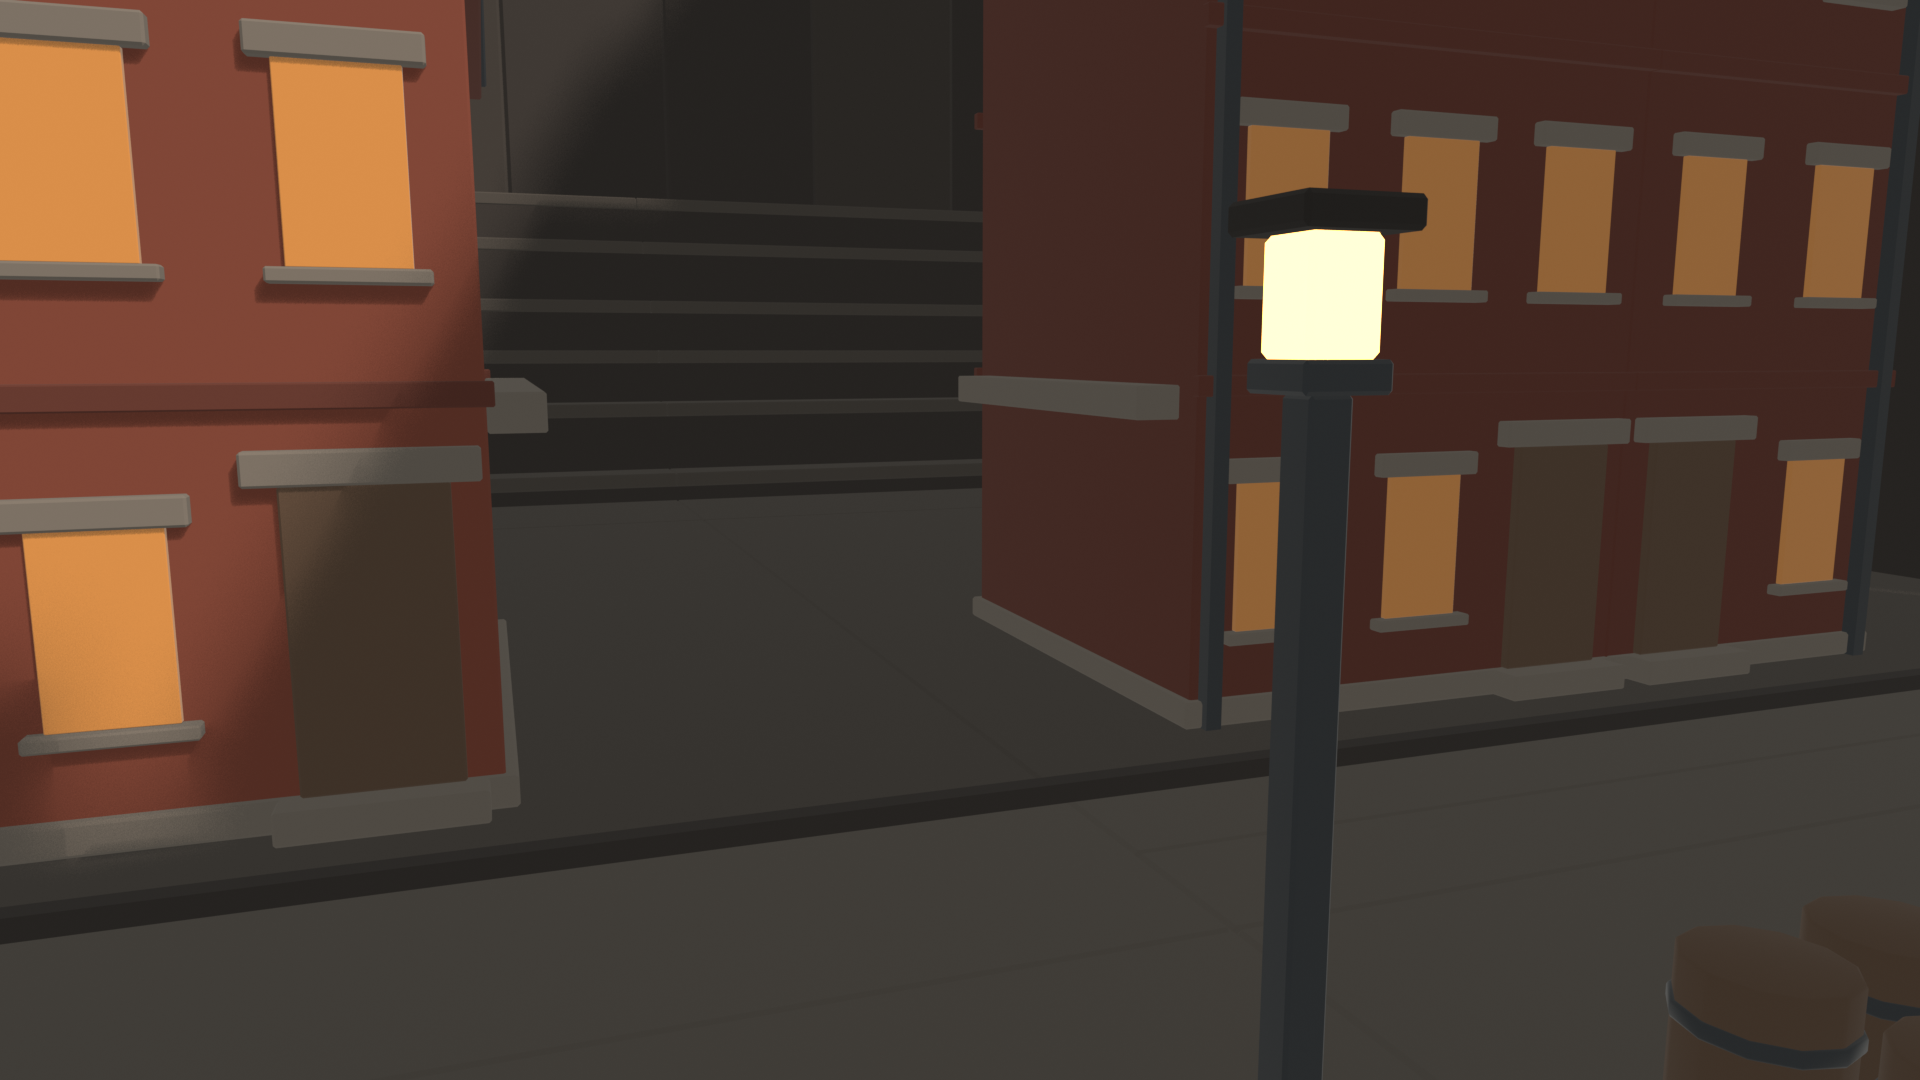
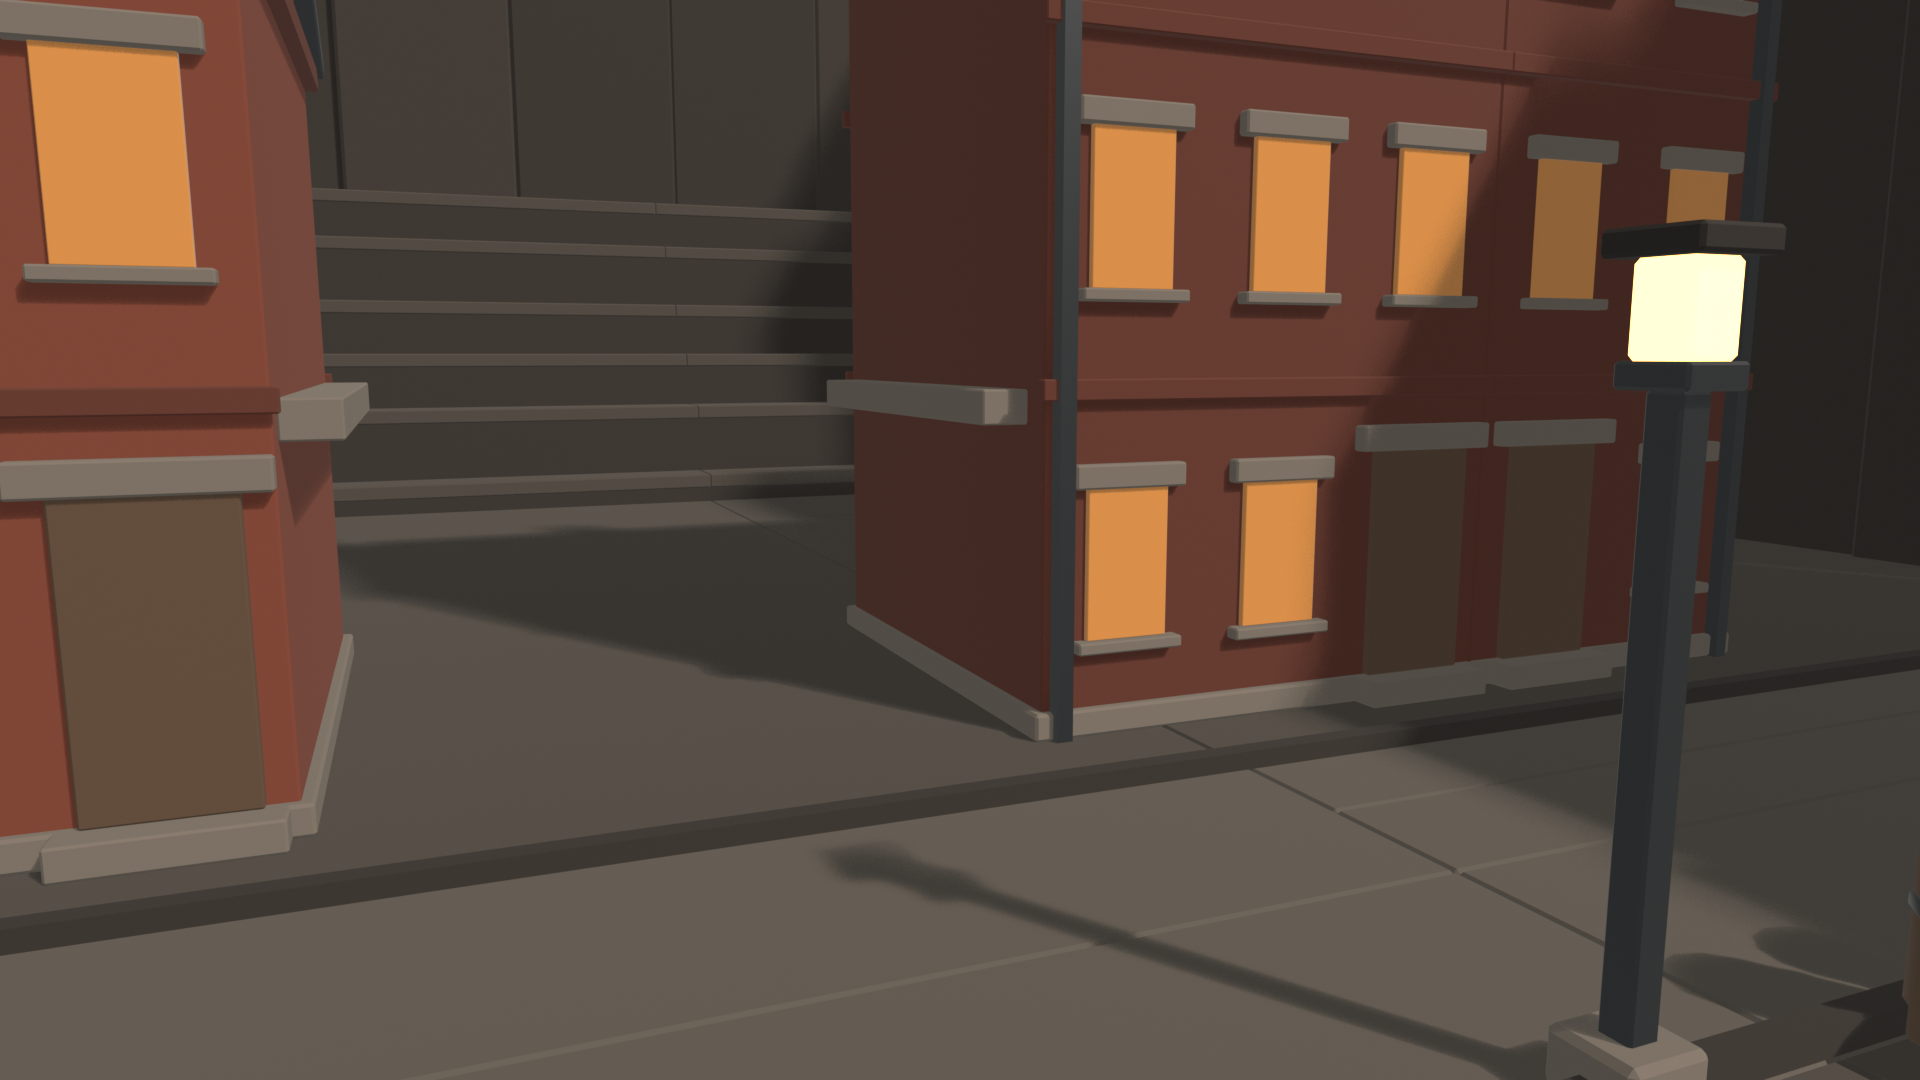
Region Foundation Task 10b: ungrippable edges (RenseiNoGrip)
Owner's choice "Ungrippable edges": parts tagged RenseiNoGrip
(TuningConfig.Parkour.NoGripTag), or inside a Model with it, can't be
grabbed by the climb, the climb leap, climbing along or the wall run.
One helper, MovementState.Grippable (= JumpManager.Grippable), used by
every client grab path (GripRay) and by the server's wall-in-reach check,
which now refuses a climb / wall run on a tagged wall. Untagged parts
behave exactly as before.

Region builder: every edge wall block carries rs_tags RenseiNoGrip;
EDGE_HEIGHT 80 and WALL_CLEAR 26 (PROPOSALS); the Testbed row district
reaches x = -20 so it still plans 3 houses. New suite Play_NoGrip.
TuningConfig also picks up the Studio-only Knockable line (sync).

diff --git a/Art/Blender/region_builder/tests/run.py b/Art/Blender/region_builder/tests/run.py
@@ -443,10 +443,11 @@ def test_placement():
     plan = PL.plan_buildings(L, G)
     got = sorted((b["id"], b["x"], b["z"], round(b["theta"], 4), b["w"], b["d"], b["storeys"], b["party"]) for b in plan)
     # (fix round 2: the row district moved south of the main road; at its old place the 16-stud wall clearance left
-    # room for only 2 houses. A terrace of 2, a Density alley of 19 studs, then 1 house; all face the road, north.)
+    # room for only 2 houses. A terrace of 2, a Density alley of 19 studs, then 1 house; all face the road, north.
+    # Task 10b: the 26-stud wall clearance cut the frontage to 2 houses again; the district now reaches x = -20.)
     check("the Testbed plan: 3 houses facing the main road",
-          got == [("row_0", -92.0, 20.5, 0.0, 12, 17, 3, "R"), ("row_1", -78.0, 20.5, 0.0, 16, 17, 3, "L"),
-                  ("row_2", -43.0, 21.5, 0.0, 16, 19, 2, "")], got)
+          got == [("row_0", -82.0, 20.5, 0.0, 12, 17, 3, "R"), ("row_1", -68.0, 20.5, 0.0, 16, 17, 3, "L"),
+                  ("row_2", -33.5, 21.5, 0.0, 15, 19, 2, "")], got)
     check("plans are deterministic", [b["seed"] for b in PL.plan_buildings(L, G)] == [b["seed"] for b in plan])
 
     # every style on a long flat frontage: coverage rises with Density, alleys >= 4, <= 3 in a row, no overlaps,
@@ -513,10 +514,14 @@ def test_placement():
     check("stoop risers are 1 stud or less, the top one included", ok)
     check("no door, no stoop", PL.stoop_tops(None, 10, 4) == [])
 
-    # the edge walls: 120 studs (fully upgraded climbers), and nothing within WALL_CLEAR of their inner faces
-    check("edge walls stand 120 studs over the ground (PROPOSAL)", PL.EDGE_HEIGHT >= 120, PL.EDGE_HEIGHT)
-    check("the wall-clear rect is EDGE_BAND + WALL_CLEAR (28) in from the Testbed's edge",
-          PL.wall_clear_rect(L) == (-100, -100, 100, 100), PL.wall_clear_rect(L))
+    # the edge walls (Task 10b, owner: "Ungrippable edges"): they carry RenseiNoGrip, so no climb or wall run grabs
+    # them; 80 studs over the ground (well over a running jump, about +16 to +19) and nothing within WALL_CLEAR (26:
+    # past a running jump's apex, 18-23 studs out) of their inner faces
+    check("edge walls stand 80 studs over the ground (PROPOSAL)", PL.EDGE_HEIGHT == 80, PL.EDGE_HEIGHT)
+    check("WALL_CLEAR is 26 studs (PROPOSAL)", PL.WALL_CLEAR == 26, PL.WALL_CLEAR)
+    check("the edge tag is RenseiNoGrip", getattr(PL, "EDGE_TAG", None) == "RenseiNoGrip", getattr(PL, "EDGE_TAG", None))
+    check("the wall-clear rect is EDGE_BAND + WALL_CLEAR (38) in from the Testbed's edge",
+          PL.wall_clear_rect(L) == (-90, -90, 90, 90), PL.wall_clear_rect(L))
     x0, z0, x1, z1 = PL.wall_clear_rect(L)
 
     def within(q):
@@ -524,20 +529,20 @@ def test_placement():
     Gt = HF.sample(L, cell=4)
     pt = PL.plan_buildings(L, Gt)
     props = PL.plan_props(L, Gt, pt)
-    check("Testbed: buildings (with overhangs and stoops) and props keep 16+ studs off the walls' inner faces",
+    check(f"Testbed: buildings (with overhangs and stoops) and props keep {PL.WALL_CLEAR}+ studs off the walls' inner faces",
           all(within(b["clear"]) for b in pt) and all(within(PL._quad(p["x"], p["z"], p["theta"], (-3, -3, 3, 3)))
                                                      for p in props), [(b["id"], b["clear"]) for b in pt])
     wide = _flat_district(raw, "railtown.house", 1.0, poly=[[-128, -60], [128, -60], [128, -12], [-128, -12]])
     Gw = HF.sample(wide, cell=4)
     pw = PL.plan_buildings(wide, Gw)
-    check("a district reaching the footprint's edge builds only 16+ studs clear of the walls",
+    check(f"a district reaching the footprint's edge builds only {PL.WALL_CLEAR}+ studs clear of the walls",
           pw and all(within(b["clear"]) for b in pw) and min(min(x for x, _ in b["clear"]) for b in pw) >= x0 - 1e-9,
           [(round(min(x for x, _ in b["clear"]), 1), round(max(x for x, _ in b["clear"]), 1)) for b in pw])
-    check("cover and lamps keep 16+ studs off the walls too",
+    check(f"cover and lamps keep {PL.WALL_CLEAR}+ studs off the walls too",
           all(within(PL._quad(p["x"], p["z"], p["theta"], (-3, -3, 3, 3))) for p in PL.plan_props(wide, Gw, pw)))
     near = copy.deepcopy(raw)
     near["Landmarks"].append({"Id": "nearwall", "Kind": "railtown.market_stall", "At": [110, 40], "Yaw": 0})
-    check("a landmark within 16 studs of a wall is caught (the landmarks stage refuses it)",
+    check(f"a landmark within {PL.WALL_CLEAR} studs of a wall is caught (the landmarks stage refuses it)",
           PL.landmarks_too_near_walls(near) == ["nearwall"] and PL.landmarks_too_near_walls(L) == [],
           PL.landmarks_too_near_walls(near))
     # the warehouse dock: 1.4 over level ground gets a step (the stage builds exactly the planner's stoop_tops)

diff --git a/Art/Blender/region_builder/tests/blender_check.py b/Art/Blender/region_builder/tests/blender_check.py
@@ -553,6 +553,9 @@ def kit_main():
                       t.z - sz[2] / 2))
     check("edge parts are unrotated blocks", eparts and all(
         o["rs_kind"] == "Block" and all(abs(a) < 1e-6 for a in o.matrix_world.to_euler()) for o in eparts))
+    # Task 10b (owner: "Ungrippable edges"): every edge wall block carries RenseiNoGrip, so no climb or wall run grabs it
+    check("every edge wall block carries rs_tags RenseiNoGrip", eparts and all(
+        "RenseiNoGrip" in tags_of(o) for o in eparts), [o.name for o in eparts if "RenseiNoGrip" not in tags_of(o)][:6])
 
     def in_gap(x, z):
         return any(g["Box"][0][0] <= x <= g["Box"][1][0] and g["Box"][0][2] <= z <= g["Box"][1][2] for g in gaps_)
@@ -566,7 +569,8 @@ def kit_main():
     # inward profiles every 2 studs round the perimeter (the corner squares excluded: the other side's profiles cover
     # their faces): h(t) = the highest edge top at inset t. Each profile must be covered from the footprint edge to one
     # inner face, every covered inset within 1 stud of the crest (no tread to rest on), and the inner face at least
-    # EDGE_HEIGHT (120, PROPOSAL: the owner's Lindenmoor rule) over the highest ground in the 4 studs beside it
+    # EDGE_HEIGHT (80, PROPOSAL: the owner's Lindenmoor figure; the walls are ungrippable) over the highest ground in the
+    # 4 studs beside it
     sides = {"N": ((1, 0), (0, 1), (0, -hd), hw), "S": ((1, 0), (0, -1), (0, hd), hw),
              "W": ((0, 1), (1, 0), (-hw, 0), hd), "E": ((0, 1), (-1, 0), (hw, 0), hd)}
     open_, short, treads, blocked, nprof = [], [], [], [], 0
@@ -604,7 +608,7 @@ def kit_main():
     check("the edge walls close the footprint's edge except at EdgeGaps", eparts and nprof > 400 and not open_,
           open_[:8])
     check(f"each edge wall's inner face stands {PL.EDGE_HEIGHT}+ studs over the ground beside it (PROPOSAL, "
-          "owner's rule: fully upgraded climbers)",
+          "owner's Lindenmoor figure; the walls are ungrippable)",
           not short, short[:6])
     check("no tread on an edge wall's climbable face (nothing more than 1 stud below the crest)", not treads,
           treads[:6])
@@ -617,7 +621,7 @@ def kit_main():
         if b[5] > lo + 1e-6:
             bad.append((o.name, round(b[5], 2), lo))
     check("each edge wall reaches the lowest ground under it", eparts and not bad, bad[:4])
-    # nothing a climber could grab or rest on stands within WALL_CLEAR (16) of a wall's inner face: every part of every
+    # nothing a player could stand on stands within WALL_CLEAR (26) of a wall's inner face: every part of every
     # building, landmark, cover cluster and lamp taller than 1 stud, against every wall block (horizontal distance)
     near = []
     for g in ("Buildings", "Landmarks", "Cover"):
@@ -647,6 +651,10 @@ def kit_main():
           len([r for pf in data["prefabs"] if pf["g"] == "Markers" for r in pf["p"]]) == 4)
     check("full export: ledge rows carry field 16 = RenseiLedge",
           any(len(r) == 16 and "RenseiLedge" in r[15].split(",") for r in rows))
+    erows = [r for pf in data["prefabs"] if pf["g"] == "Edges" for r in pf["p"]]
+    check("full export: every edge wall row carries field 16 with RenseiNoGrip",
+          len(erows) == len(eparts) and all(len(r) == 16 and "RenseiNoGrip" in str(r[15]).split(",") for r in erows),
+          (len(erows), len(eparts), [r[15] if len(r) == 16 else len(r) for r in erows][:4]))
     check("full export: lamp glow rows carry NightOnly",
           any(len(r) == 16 and r[14] and json.loads(r[14]).get("NightOnly") is True for r in rows))
     check("full export: lamp lights are exported", sum(len(pf["l"]) for pf in data["prefabs"]) >= len(glows),

diff --git a/Art/Blender/region_builder/placement.py b/Art/Blender/region_builder/placement.py
@@ -38,24 +38,22 @@ STEP_TREAD = 1.2  # studs: a stoop step's tread (risers are 1 stud or less)
 COVER_EVERY = 20  # PROPOSAL (brief): studs of quiet route, or of built frontage (back yards), per cover cluster
 LAMP_EVERY = 40  # PROPOSAL: studs of public or road route per street lamp, sides alternating
 EDGE_BAND = 12  # PROPOSAL: the edge ridges' depth in from the footprint's edge
-# PROPOSAL, the owner's Lindenmoor rule (natural edges, no invisible walls; Lindenmoor's crag stands about 115 over its
-# ridges): every edge wall shows a SHEER inner face at least EDGE_HEIGHT studs over the ground beside it, with no tread
-# on that face, so that not even a fully upgraded climber gets out. This supersedes the Task 10 brief's "at least 24
-# studs" (coordinator, fix rounds 1-2). The reach of a full climb, from the game's numbers:
-#   stamina      TuningConfig.Stamina.Max 100 (TuningConfig.lua:10) + BO_Endure +10 max stamina x 3 ranks
-#                (SkillTree.lua:82) = 130;
-#   climb cost   Parkour.ClimbStart 10 to grab, ClimbMove 3 per ClimbTickEvery 0.25 s = 12/s while moving
-#                (TuningConfig.lua:197, 202, 204), both x 0.8 with BO_Climb "Climber" (ParkourCost -20%,
-#                SkillTree.lua:83);
-#   climb speed  Parkour.ClimbSpeed 9 studs/s (TuningConfig.lua:199).
-#   Base: (100 - 10) / 12 x 9 = 67.5 studs; fully upgraded: (130 - 8) / 9.6 x 9 = 114.4 studs above the grab.
-# The grab itself comes from a jump, a few studs up, so 120 leaves little margin: raise it if jump or stamina grow.
-EDGE_HEIGHT = 120
-# PROPOSAL: every structure (building, landmark, cover cluster, lamp: anything a climber could grab or rest on) keeps
-# this far from any edge wall's inner face, so nothing within ClimbReach 5 (TuningConfig.lua:205) plus a running jump
-# of the wall lets a climber start higher or rest part way up. The wall's inner face is at most EDGE_BAND in from the
-# footprint's edge, so structures stay EDGE_BAND + WALL_CLEAR in (_Site.inner, wall_clear_rect).
-WALL_CLEAR = 16
+# Ungrippable edges (Task 10b, owner 2026-10-24: "Ungrippable edges"; natural edges, never invisible walls). No wall
+# height holds a climber: the climb leap (Space+W, Parkour.ClimbStep 8 x the ParkourCost multiplier, +12 studs, 0.5 s
+# cooldown) takes a base player about 123 studs up from a running jump and a fully upgraded one about 207. So every edge
+# wall block carries EDGE_TAG (the CollectionService tag RenseiNoGrip, TuningConfig.Parkour.NoGripTag, through rs_tags):
+# the climb, the climb leap and the wall run can't grab it (JumpManager.Grippable; the server's wall check refuses it
+# too), while it still shows and collides. The height only has to beat what needs no grip at all.
+EDGE_TAG = "RenseiNoGrip"
+# PROPOSAL (the owner's earlier Lindenmoor figure): every edge wall shows a SHEER inner face at least EDGE_HEIGHT studs
+# over the ground beside it, with no tread on that face. A running jump rises about +16 to +19 studs, so 80 is well
+# over anything reached without a grip. (Supersedes fix round 2's 120, which was sized against a full climb.)
+EDGE_HEIGHT = 80
+# PROPOSAL: every structure (building, landmark, cover cluster, lamp: anything a player could stand on) keeps this far
+# from any edge wall's inner face. A running jump's apex lands 18-23 studs out, so at 26 no roof or crate stack can
+# launch a player over the crest. The wall's inner face is at most EDGE_BAND in from the footprint's edge, so
+# structures stay EDGE_BAND + WALL_CLEAR in (_Site.inner, wall_clear_rect).
+WALL_CLEAR = 26
 EDGE_SEG = 16  # PROPOSAL: the longest ridge block along an edge
 STREET_KINDS = ("public", "quiet", "road")  # the routes a building may front
 

diff --git a/Art/Blender/region_builder/stages.py b/Art/Blender/region_builder/stages.py
@@ -525,7 +525,7 @@ def landmarks(layout, grid):
     near = PL.landmarks_too_near_walls(layout)
     if near:
         raise ValueError(f"landmark(s) {', '.join(near)} come within {PL.WALL_CLEAR} studs of an edge wall's inner face "
-                         f"(placement.WALL_CLEAR: nothing a climber can grab or rest on near the walls); move them in")
+                         f"(placement.WALL_CLEAR: nothing to jump over the crest from near the walls); move them in")
     kits.bind(materials.palette(layout))
     c = clear_group(layout, "Landmarks")
     n = 0
@@ -585,7 +585,8 @@ def edges(layout, grid):
     """Group Edges: slag walls in the EDGE_BAND round the footprint (plan_edges), one prefab per side, one sheer block
     per piece (the owner's Lindenmoor rule, placement.EDGE_HEIGHT): its inner face rises straight from 1 stud below the
     lowest ground under it to at least EDGE_HEIGHT over the highest ground under it or in the 4-stud strip inside it,
-    with no tread anywhere on the face, so no one climbs out of the map. The crests vary (PROPOSAL: 0-10 studs higher)
+    with no tread anywhere on the face. Every block carries rs_tags placement.EDGE_TAG (RenseiNoGrip, Task 10b): no
+    climb, climb leap or wall run can grab it, so no one climbs out of the map. The crests vary (PROPOSAL: 0-10 studs higher)
     and so does each block's depth into the band (10-12 studs, PROPOSAL), for a broken slag silhouette; neighbouring
     blocks meet only in upright faces. EdgeGap boxes stay open. Returns the part count."""
     M = materials.palette(layout)
@@ -612,8 +613,9 @@ def edges(layout, grid):
         bottom = lo - 1
         top = hi + EDGE_HEIGHT + round(rng.uniform(0, 10), 1)  # PROPOSAL crest variation
         mat = "cinder_dark" if j % 3 == 1 else "slag"
-        part(root, f"Wall{j}", (bx1 - bx0, bz1 - bz0, top - bottom),
-             bl((bx0 + bx1) / 2, (top + bottom) / 2, (bz0 + bz1) / 2), M[mat], bevel=0.3)
+        o = part(root, f"Wall{j}", (bx1 - bx0, bz1 - bz0, top - bottom),
+                 bl((bx0 + bx1) / 2, (top + bottom) / 2, (bz0 + bz1) / 2), M[mat], bevel=0.3)
+        o["rs_tags"] = PL.EDGE_TAG  # ungrippable (Task 10b): the climb and the wall run can't grab it
         n += 1
     return n
 
